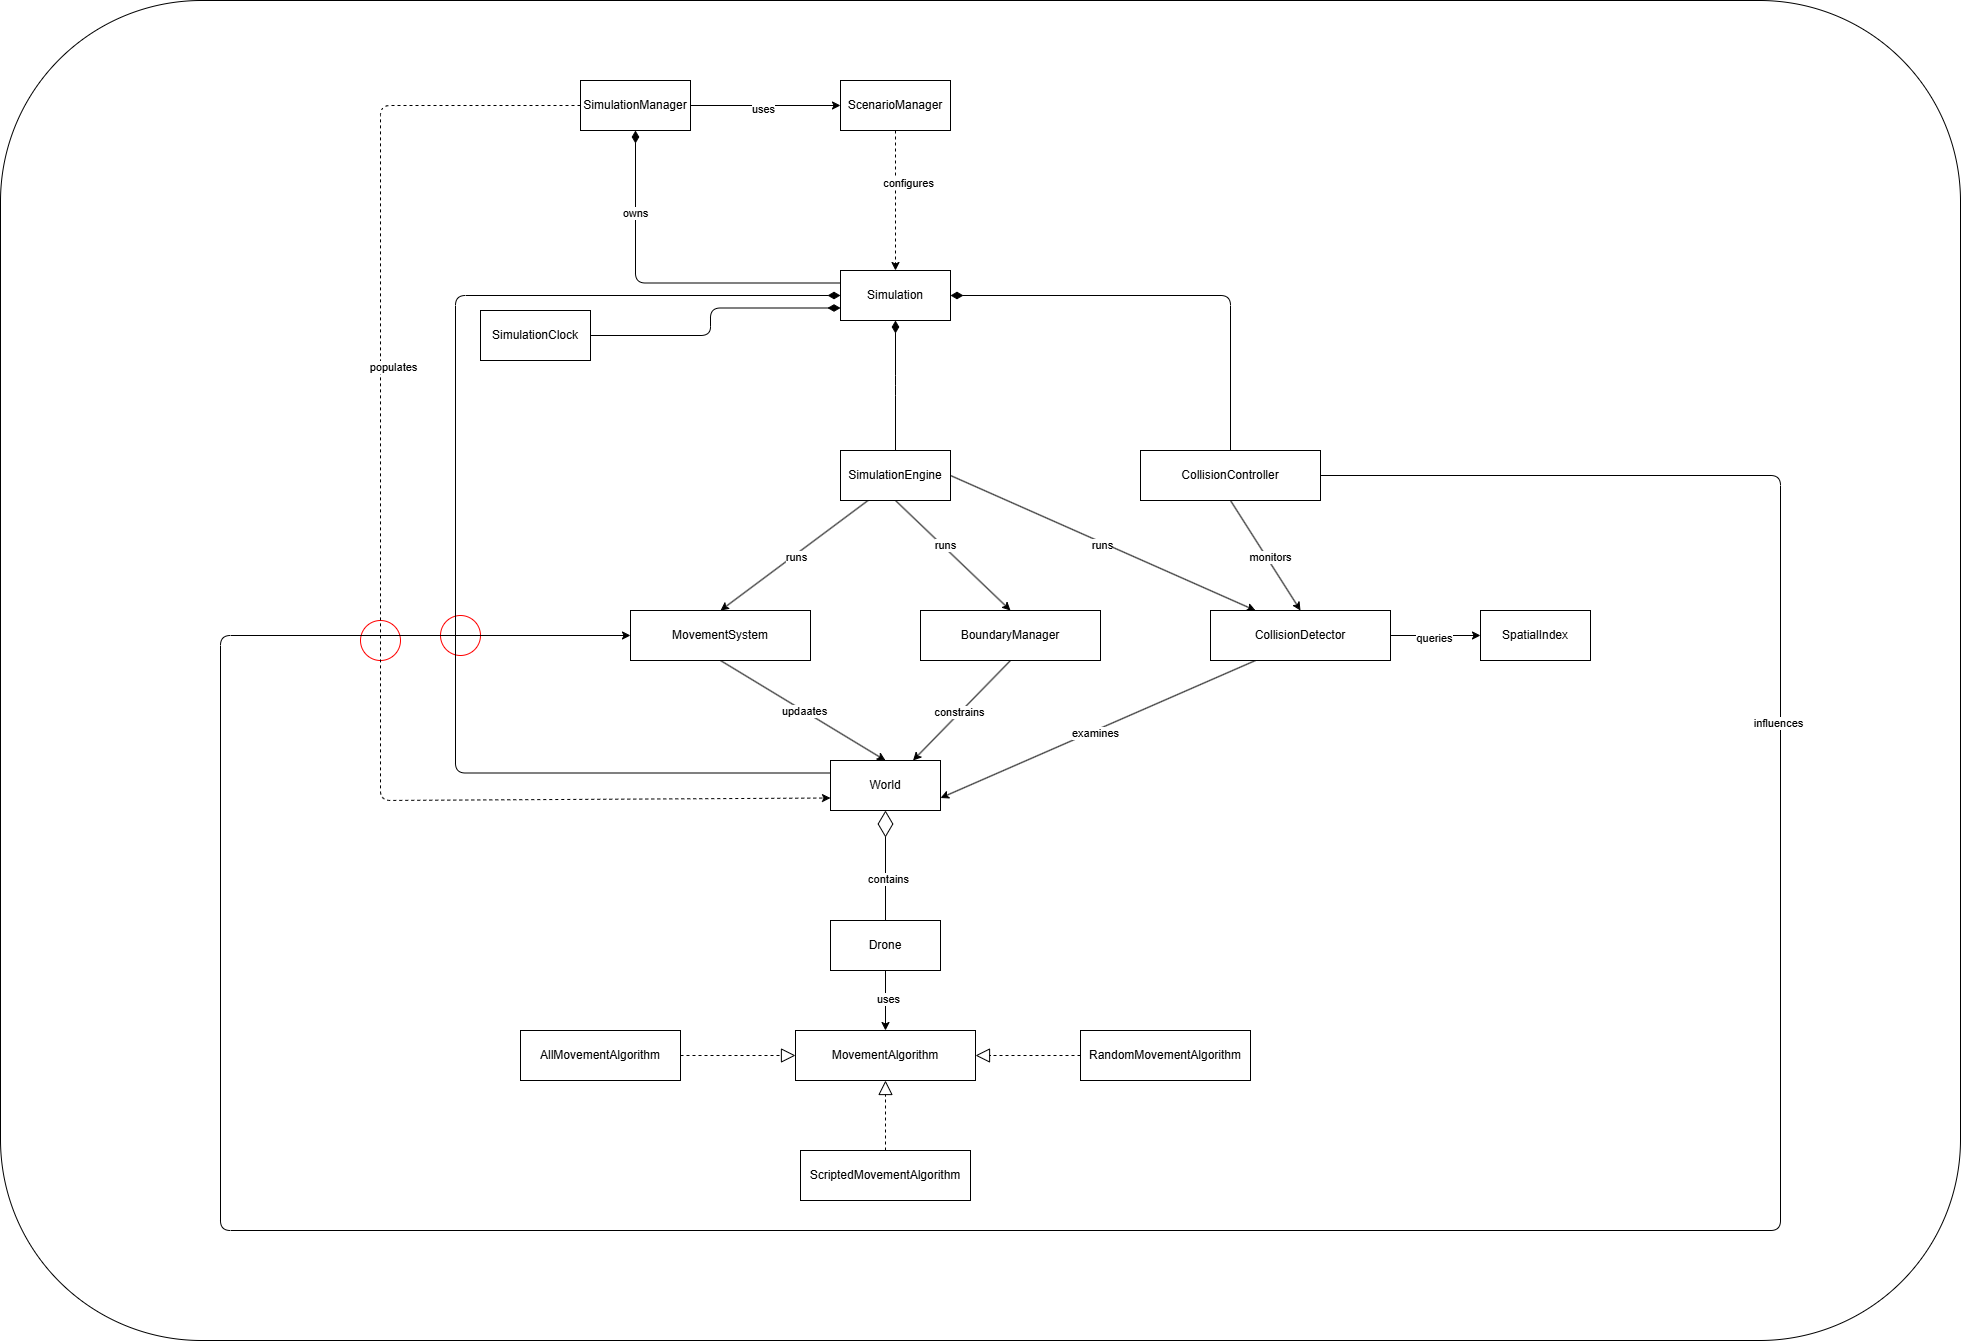
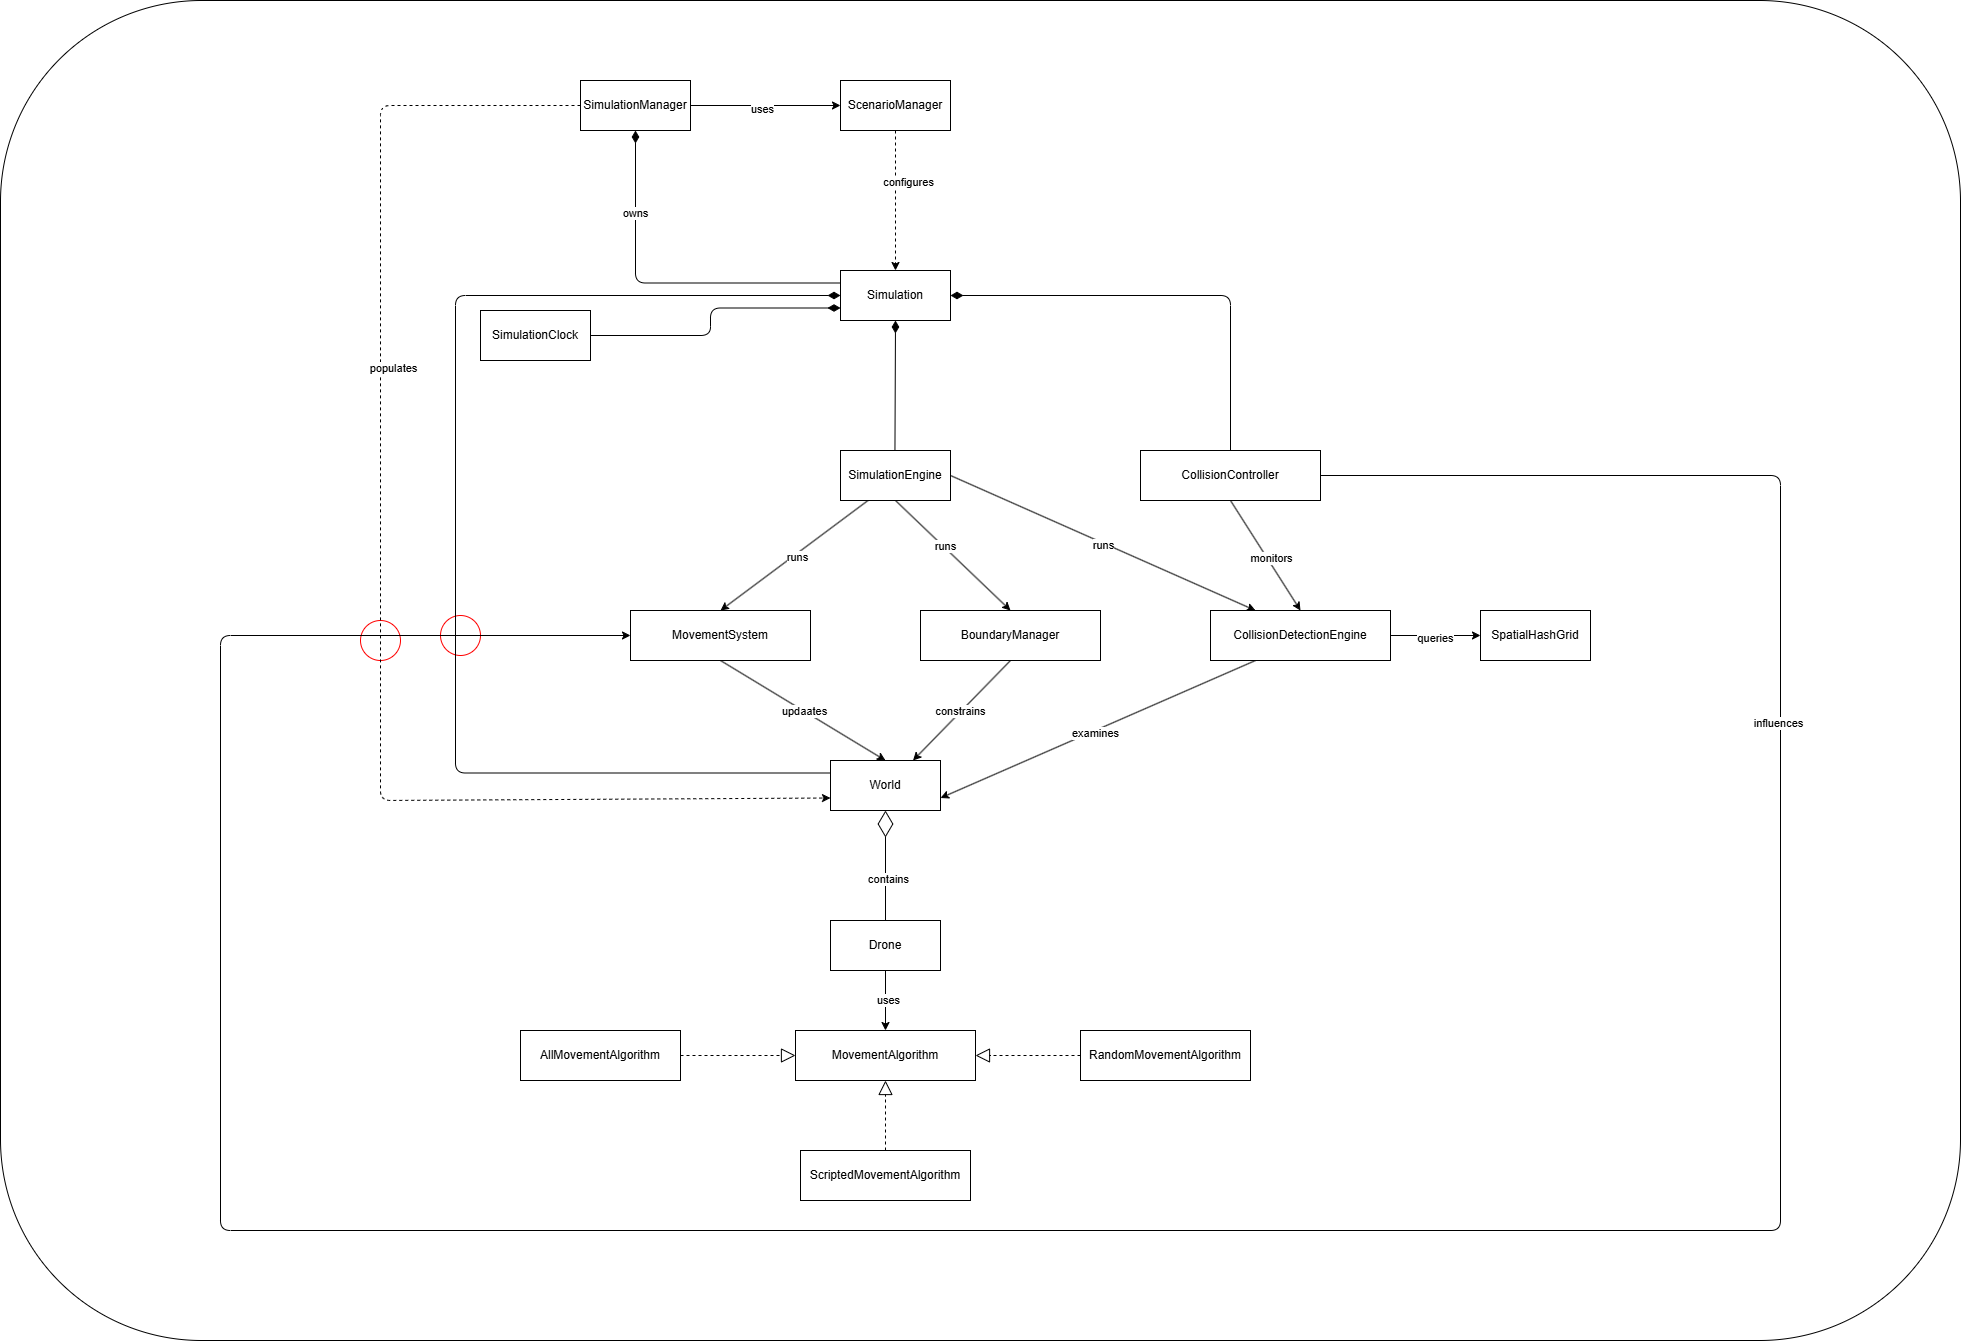
Added README and variable tweaks

diff --git a/README.md b/README.md
@@ -1,0 +1,236 @@
+# Drone Collision Simulator
+
+A high-throughput simulation for modeling up to 100,000 autonomous drones moving through a bounded three-dimensional world. The simulator is designed to make collisions uncommon during normal operation while still producing controlled collision scenarios for analysis.
+
+The project combines simulation, spatial indexing, collision detection, AI-based movement, performance benchmarking, and viewport-based visualization. Development begins with a correct and measurable local simulation kernel before adding the UI or distributed processing.
+
+## Project status
+
+**Current phase:** architecture complete enough to begin Phase 1 implementation.
+
+The first milestone is a single-process Python simulation kernel. Distributed workers, Redis, real-time streaming, and the heatmap interface are later phases and should not be included in the first implementation.
+
+## Goals
+
+- Simulate drone motion on a bounded XYZ coordinate grid.
+- Scale toward 100,000 active drones.
+- Avoid all-pairs collision checking through spatial hashing.
+- Support deterministic and reproducible simulations.
+- Detect collisions and near misses precisely.
+- Keep ordinary collisions rare while guaranteeing controlled collision scenarios.
+- Measure tick latency, throughput, candidate pairs, and collision frequency.
+- Render density and collision data only for the user's visible viewport.
+- Support partitioned and distributed execution after the local kernel is validated.
+
+## Non-goals for Phase 1
+
+- Distributed workers or volunteer compute clients
+- Redis, databases, or message queues
+- REST, WebSocket, or SSE APIs
+- React or heatmap rendering
+- GPU acceleration
+- Neural-network inference or external AI APIs
+- Terrain, buildings, globe projection, or weather simulation
+
+## High-level architecture
+
+```mermaid
+flowchart LR
+    U[User] --> C[Client]
+    C --> API[API Gateway]
+    API --> SM[Simulation Manager]
+    SM --> WC[Worker Coordinator]
+    WC --> SW[Simulation Workers]
+    SW --> SH[Spatial Hash Grid]
+    SH --> CD[Collision Detection]
+    SW --> SS[Simulation State Store]
+    SS --> VQ[Viewport Queries]
+    VQ --> UI[Heatmap and Collision UI]
+```
+
+The diagram represents the target architecture. Phase 1 runs the simulation engine, spatial hash, and collision pipeline locally in one process.
+
+## Phase 1 simulation flow
+
+Every fixed simulation tick follows the same ordered pipeline:
+
+```text
+SimulationEngine
+  -> MovementSystem
+  -> BoundaryManager
+  -> SpatialHashGrid
+  -> CollisionDetectionEngine
+  -> CollisionResolutionEngine
+  -> MetricsCollector
+```
+
+1. The movement system computes new velocities and positions.
+2. The boundary manager constrains drones to the XYZ world.
+3. The spatial hash assigns drones to grid cells.
+4. Collision detection checks drones in the same and neighboring cells.
+5. Collision resolution updates affected drone state.
+6. Metrics are recorded for correctness and performance analysis.
+
+## Data-oriented drone state
+
+`Drone` is a logical domain entity in the system design. The performance-critical implementation must not create 100,000 heavyweight Python objects. Drone state will be stored in structure-of-arrays form using NumPy.
+
+```python
+positions: np.ndarray            # (N, 3), float32
+velocities: np.ndarray           # (N, 3), float32
+active_mask: np.ndarray          # (N,), bool
+movement_policy_ids: np.ndarray  # (N,), integer
+```
+
+Initial simulation state includes:
+
+| Concept | Initial state |
+| --- | --- |
+| Simulation | ID, status, tick, fixed time step, random seed |
+| World | XYZ bounds, collision radius, near-miss radius |
+| Drone state | Positions, velocities, active mask, policy IDs |
+| Spatial hash | Cell size and mapping from cell coordinates to drone indices |
+| Collision event | Tick, drone IDs, position, distance, relative speed |
+| Near-miss event | Tick, drone IDs, minimum distance |
+| Metrics | Tick time, candidate pairs, collisions, near misses |
+
+## Spatial hashing
+
+A brute-force collision detector compares every pair of drones and has quadratic complexity. At 100,000 drones, that would require checking approximately five billion pairs per tick.
+
+The spatial hash divides the world into uniform XYZ cells. Each drone is compared only with drones in its own cell and the 26 adjacent 3D cells. The cell size must be at least the configured interaction radius so that relevant pairs are not missed.
+
+The optimized detector will be verified against a brute-force reference implementation on small deterministic simulations.
+
+## Movement and AI
+
+Movement algorithms are interchangeable policies applied in batches. Planned policies include:
+
+- Random movement for baseline simulation
+- Scripted routes for deterministic scenarios
+- AI movement for local avoidance and trajectory selection
+
+The AI movement layer should use local numerical inference or decision algorithms rather than one external model request per drone. Movement policies must operate on batches of drone state to remain practical at 100,000 drones.
+
+Rare collisions will be produced by a scenario controller that occasionally creates converging routes or alters avoidance behavior for selected drones. It influences movement generation; it does not change collision-detection rules.
+
+## Collision processing
+
+The collision pipeline separates detection from resolution:
+
+- `CollisionDetectionEngine` finds candidate pairs and creates collision or near-miss events.
+- `CollisionResolutionEngine` consumes collision events and updates affected state.
+- The simulation worker later writes event batches and publishes real-time updates.
+
+Candidate pairs must be unique, and each unordered pair may appear at most once per tick.
+
+## Phase 1 acceptance criteria
+
+Phase 1 is complete when the local kernel can:
+
+- Generate reproducible XYZ positions and velocities from a random seed.
+- Move drones using a fixed time step.
+- Enforce configurable world boundaries.
+- Insert and update drones in a uniform spatial hash.
+- Detect unique collisions and near misses.
+- Match brute-force collision results on small test cases.
+- Run benchmarks with 1,000, 10,000, and 100,000 drones.
+- Report tick latency, ticks per second, candidate pairs, collisions, and near misses.
+- Run without Redis, a database, a web server, or a frontend.
+
+Reaching 100,000 drones is a benchmark target, not permission to sacrifice correctness. Performance optimization begins only after the spatial detector matches the reference detector.
+
+## Planned project structure
+
+```text
+drone-collision-simulator/
+├── README.md
+├── pyproject.toml
+├── src/
+│   └── drone_sim/
+│       ├── config.py
+│       ├── state.py
+│       ├── simulation.py
+│       ├── movement.py
+│       ├── boundaries.py
+│       ├── spatial_hash.py
+│       ├── collisions.py
+│       └── metrics.py
+├── tests/
+│   ├── test_movement.py
+│   ├── test_boundaries.py
+│   ├── test_spatial_hash.py
+│   └── test_collisions.py
+└── benchmarks/
+    └── benchmark_simulation.py
+```
+
+This structure is provisional. It should remain small until the local simulation kernel is working and benchmarked.
+
+## Roadmap
+
+### Phase 1: Local simulation kernel
+
+- Vectorized XYZ drone state
+- Fixed-timestep movement
+- Boundary handling
+- Spatial hashing
+- Collision and near-miss detection
+- Correctness tests and benchmarks
+
+### Phase 2: AI and scenario control
+
+- Batched movement policies
+- Local collision avoidance
+- Trajectory prediction
+- Controlled rare-collision scenarios
+- Collision-rate validation
+
+### Phase 3: Visualization and APIs
+
+- Simulation control API
+- Viewport queries by bounding box and altitude range
+- Density heatmap tiles
+- Precise collision markers and details
+- Real-time state and metrics updates
+
+### Phase 4: Distributed execution
+
+- Worker coordinator and worker pool
+- Spatial partitions
+- Boundary-drone exchange
+- Partition rebalancing
+- Worker failure recovery
+
+### Phase 5: Optimization and deployment
+
+- Profiling and hot-path optimization
+- Optional native or GPU acceleration
+- Redis or another event transport if measurements justify it
+- Monitoring, checkpointing, and deployment
+
+## Engineering principles
+
+- Correctness before optimization
+- Measurements before infrastructure
+- Batch operations instead of per-drone Python loops
+- Deterministic tests before randomized stress tests
+- One local worker before distributed workers
+- Explicit interfaces between movement, indexing, detection, and rendering
+- Architectural diagrams guide the design but are not a literal requirement to implement every class immediately
+
+## Intended technology stack
+
+| Layer | Initial choice |
+| --- | --- |
+| Simulation | Python 3.11+ and NumPy |
+| Testing | pytest |
+| Benchmarking | Python timing and profiling tools |
+| Backend, later | FastAPI |
+| Streaming, later | WebSocket or SSE |
+| Frontend, later | React with Canvas or WebGL rendering |
+| Messaging, later | Redis only if distributed measurements justify it |
+
+## License
+
+No license has been selected yet.